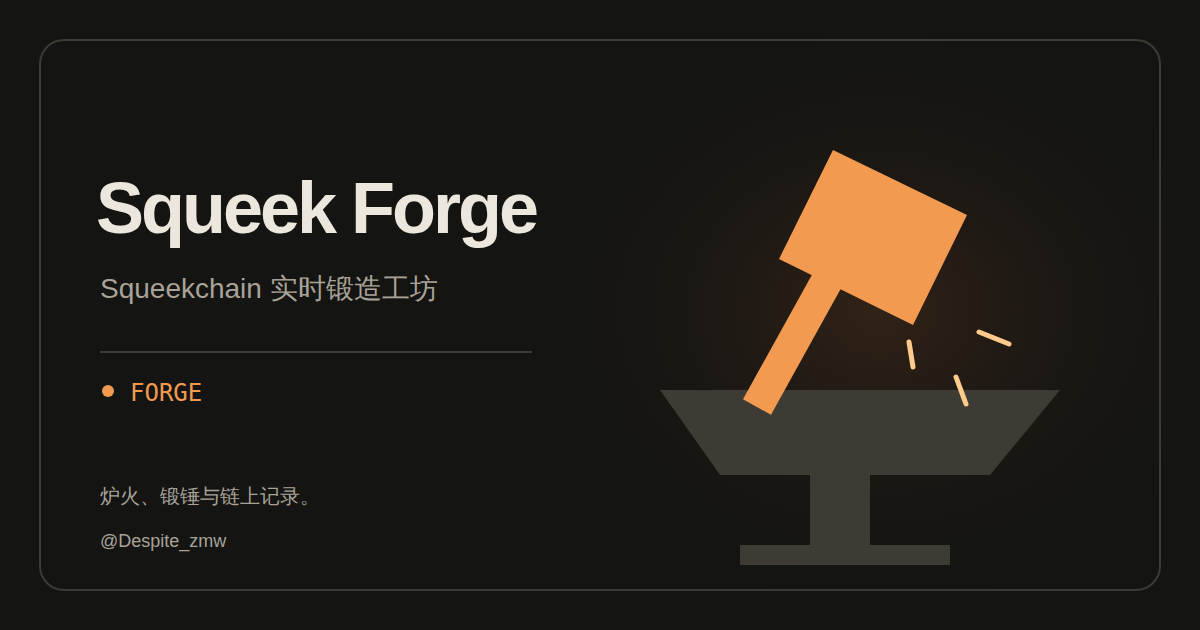
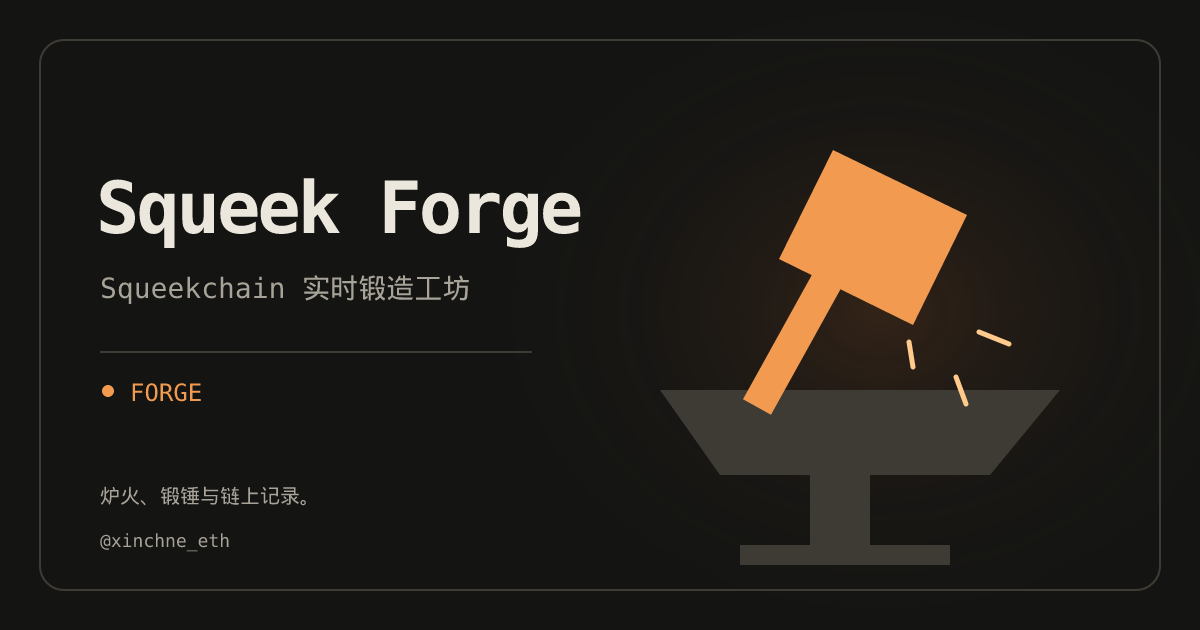
Update attribution to @xinchne_eth

diff --git a/dist/index.html b/dist/index.html
@@ -397,7 +397,7 @@
     </div>
     <noscript><p>请启用 JavaScript 以读取公开链上数据。页面不需要钱包或登录。</p></noscript>
   </main>
-  <footer class="shell site-footer"><p>炉火有息，记录不止。<span class="footer-sign"> @Despite_zmw</span></p><div class="footer-links"><span>Sepolia 测试网</span><a href="https://sepolia.squeekchain.com/" target="_blank" rel="noopener noreferrer">Squeekchain 官网 ↗</a><a href="https://api.squeekchain.com/v1/status" target="_blank" rel="noopener noreferrer">公开数据源 ↗</a></div></footer>
+  <footer class="shell site-footer"><p>炉火有息，记录不止。<span class="footer-sign"> @xinchne_eth</span></p><div class="footer-links"><span>Sepolia 测试网</span><a href="https://sepolia.squeekchain.com/" target="_blank" rel="noopener noreferrer">Squeekchain 官网 ↗</a><a href="https://api.squeekchain.com/v1/status" target="_blank" rel="noopener noreferrer">公开数据源 ↗</a></div></footer>
   <script>
     // @ts-check
     'use strict';

diff --git a/index.html b/index.html
@@ -397,7 +397,7 @@
     </div>
     <noscript><p>请启用 JavaScript 以读取公开链上数据。页面不需要钱包或登录。</p></noscript>
   </main>
-  <footer class="shell site-footer"><p>炉火有息，记录不止。<span class="footer-sign"> @Despite_zmw</span></p><div class="footer-links"><span>Sepolia 测试网</span><a href="https://sepolia.squeekchain.com/" target="_blank" rel="noopener noreferrer">Squeekchain 官网 ↗</a><a href="https://api.squeekchain.com/v1/status" target="_blank" rel="noopener noreferrer">公开数据源 ↗</a></div></footer>
+  <footer class="shell site-footer"><p>炉火有息，记录不止。<span class="footer-sign"> @xinchne_eth</span></p><div class="footer-links"><span>Sepolia 测试网</span><a href="https://sepolia.squeekchain.com/" target="_blank" rel="noopener noreferrer">Squeekchain 官网 ↗</a><a href="https://api.squeekchain.com/v1/status" target="_blank" rel="noopener noreferrer">公开数据源 ↗</a></div></footer>
   <script>
     // @ts-check
     'use strict';

diff --git a/README.md b/README.md
@@ -1,6 +1,6 @@
 # Squeek Forge
 
-把 Squeekchain 的链上 work 变成一座夜班锻造工坊：区块是钢锭，转速驱动砂轮和锻锤，结算是出炉记录。页面页脚署名 **@Despite_zmw**。
+把 Squeekchain 的链上 work 变成一座夜班锻造工坊：区块是钢锭，转速驱动砂轮和锻锤，结算是出炉记录。页面页脚署名 **@xinchne_eth**。
 
 应用是单个 `index.html`，CSS、原生 JavaScript、铁匠 SVG 和 favicon 全部内联。没有框架、运行时依赖、钱包、交易、登录或后端。`assets/social.png` 仅供链接分享预览使用；正常页面不依赖外部字体或图片服务。
 
